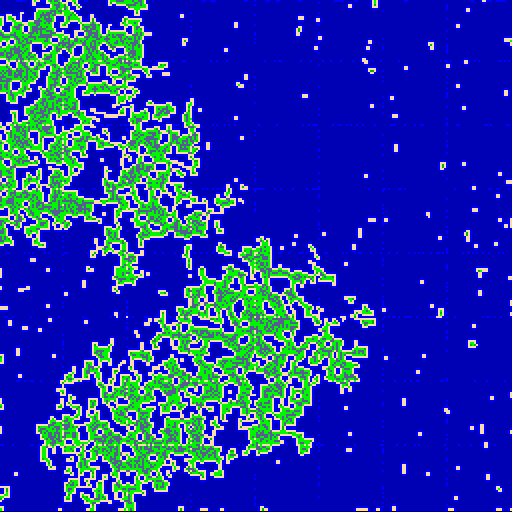
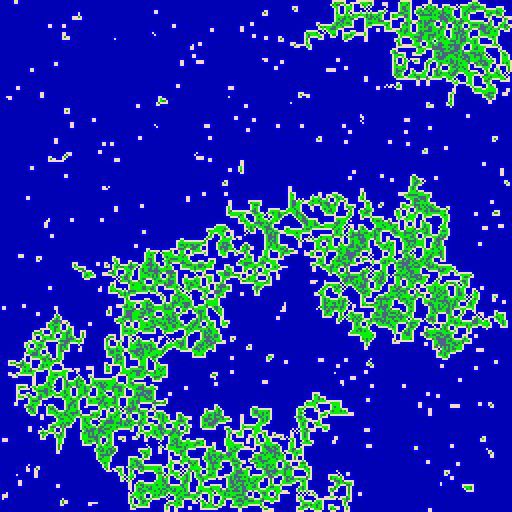
Optimization and fixed chunk border artifacts

diff --git a/main.py b/main.py
@@ -1,14 +1,15 @@
 # Noise Generator
 # Name: Charles-Émile Lanthier
-# Version: alpha 0.0.0
-# Last revision: 2024-10-17
+# Version: alpha 0.1.0
+# Last revision: 2025-06-21
 
 # TODO: Add mountain range map
-# !FIX: Fix chunk border artifacts
 # TODO: Add biomes (maybe)
 # TODO: Add interface to customize generation parameters (maybe)
 
 import pygame, sys, random
+import numpy as np
+import time
 from pygame.locals import QUIT
 
 def initialize_graphics() -> pygame.Surface:
@@ -172,6 +173,8 @@ class World:
         self.chunks = {}
         self.continent_map = {}
         self.mountain_map = {} 
+        self.noise_array = None
+        self.tiles_by_position = {}
 
 # Constants
 world = World()
@@ -183,61 +186,106 @@ world_size = 256
 chunk_size = 32 * tile_size # The size of a chunk side in pixels, by default 32 tiles or 64 pixels
 world_size_px = world_size * tile_size # The size of the world sides in pixels
 
-def compare_tile_neighbors(tile : Tile, neighbor_tile_dist=1) -> tuple:
+def create_noise_array() -> np.ndarray:
     """
-    Compares the noise value of a tile with its neighboring tiles and returns the count of matching neighbors.
-
-    This function checks the adjacent tiles (up, down, left, right) around a given tile within the same chunk and 
-    neighboring chunks, if necessary. It compares the noise value of each neighboring tile to the current tile's 
-    noise value. 
-
-    Args:
-        tile (Tile): The tile whose neighbors will be compared. The tile must have 'x', 'y', and 'noise_val' attributes.
-        neighbor_tile_dist (int, optional): The distance between the tile and its neighbors. 
-        Defaults to 1, which means directly adjacent tiles.
-
-    Returns:
-        tuple: A tuple containing:
-        - neighbor_ammount (int): The number of neighboring tiles with the same noise value as the given tile.
-        - combined_noise_value (int): The noise value of the surounding land.
-        - average_noise_value (int): The average noise value of the surounding noise.
+    Creates a numpy array representation of the world's noise values for faster processing.
     """
-    
-    neighbors = [(0, -1), (-1, 0), (0, 1), (1, 0)] # Directions for neighbor Tiles (Up, Left, Down, Right)
-    current_chunk_x = tile.x - (tile.x % chunk_size)
-    current_chunk_y = tile.y - (tile.y % chunk_size)
-    current_chunk = world.chunks.get((current_chunk_x, current_chunk_y))
+    tiles_per_side = world_size_px // tile_size
+    noise_array = np.zeros((tiles_per_side, tiles_per_side), dtype=np.int8)
 
-    neighbor_ammount = 0
-    combined_noise_value = 0
-    average_noise_value = 0
-    for neighbor_x, neighbor_y in neighbors:
-        neighbor_tile_x = tile.x + neighbor_x * tile_size * neighbor_tile_dist
-        neighbor_tile_y = tile.y + neighbor_y * tile_size * neighbor_tile_dist
+    for chunk_coords, chunk in world.chunks.items():
+        for (tile_x, tile_y), tile in chunk.tiles.items():
+            array_x = tile_x // tile_size
+            array_y = tile_y // tile_size
+            noise_array[array_y, array_x] = tile.noise_val
 
-        # Check if the neighbor tile is in the current chunk
-        if (neighbor_tile_x // chunk_size == current_chunk_x // chunk_size and
-            neighbor_tile_y // chunk_size == current_chunk_y // chunk_size):
-            neighbor_tile = current_chunk.tiles.get((neighbor_tile_x, neighbor_tile_y))
-        else:
-            # Fetch the neighboring chunk only if the neighbor is in a different chunk
-            neighbor_chunk_x = neighbor_tile_x - (neighbor_tile_x % chunk_size)
-            neighbor_chunk_y = neighbor_tile_y - (neighbor_tile_y % chunk_size)
-            neighbor_chunk = world.chunks.get((neighbor_chunk_x, neighbor_chunk_y))
-            if neighbor_chunk:
-                neighbor_tile = neighbor_chunk.tiles.get((neighbor_tile_x, neighbor_tile_y))
-            else: # Ignores world border adds a neighbor to the count
-                neighbor_tile = None
-                neighbor_ammount += 1
-                combined_noise_value += 1
+    return noise_array
 
-        if neighbor_tile:
-            combined_noise_value += neighbor_tile.noise_val
-            if neighbor_tile.noise_val == tile.noise_val:
-                neighbor_ammount += 1 
-    if neighbor_ammount > 0:
-        average_noise_value = combined_noise_value // neighbor_ammount
-    return neighbor_ammount, combined_noise_value, average_noise_value
+def update_tiles_from_array(noise_array: np.ndarray) -> None:
+    """
+    Updates tile noise values from the numpy array.
+    """
+    for chunk_coords, chunk in world.chunks.items():
+        for (tile_x, tile_y), tile in chunk.tiles.items():
+            array_x = tile_x // tile_size
+            array_y = tile_y // tile_size
+            tile.noise_val = noise_array[array_y, array_x]
+
+def smoothen_noise_vectorized(repetition: int) -> None:
+    """
+    Ultra-fast vectorized noise smoothing using numpy operations.
+    This is orders of magnitude faster than the tile-by-tile approach.
+    """
+    if world.noise_array is None:
+        world.noise_array = create_noise_array()
+
+    noise = world.noise_array.astype(np.float32)
+
+    for _ in range(repetition):
+        # Create shifted versions for neighbor calculation
+        # Pad array to handle boundaries (assume water at edges)
+        padded = np.pad(noise, 1, mode='constant', constant_values=0)
+
+        # Calculate neighbor sums using vectorized operations
+        neighbor_sum = (
+            padded[:-2, 1:-1] +  # up
+            padded[2:, 1:-1] +   # down  
+            padded[1:-1, :-2] +  # left
+            padded[1:-1, 2:]     # right
+        )
+
+        # Apply smoothing rules vectorized
+        # Land if 3+ neighbors are land OR neighbor sum > 2
+        # Water if 3+ neighbors are water OR neighbor sum < 2
+        new_noise = np.where(
+            (neighbor_sum > 2.0) | ((neighbor_sum >= 2.0) & (noise == 1.0)),
+            1.0,
+            0.0
+        )
+
+        noise = new_noise
+
+    # Convert back to int and update world
+    world.noise_array = noise.astype(np.int8)
+    update_tiles_from_array(world.noise_array)
+
+def build_tile_lookup() -> None:
+    """
+    Builds a flat dictionary for O(1) tile lookups.
+    """
+    world.tiles_by_position.clear()
+    for chunk in world.chunks.values():
+        world.tiles_by_position.update(chunk.tiles)
+
+def render_world(screen: pygame.Surface) -> None:
+    """
+    Renders the world by building a tile-level color array and scaling it up efficiently.
+    This avoids per-pixel loops and makes rendering near-instant.
+    """
+    tiles_per_side = world_size_px // tile_size
+
+    # Pre-fill tile_type and color (do in one loop for CPU cache friendliness)
+    for tile in world.tiles_by_position.values():
+        i = tile.y // tile_size
+        j = tile.x // tile_size
+        tile.tile_type = get_tile_type(tile)
+        if tile.tile_type[0] in range(3) and random.random() > 0.3 and tile.noise_val != 0 and tile.tile_type[1] == 'f':
+            tile.tile_type = (1, 't')
+        tile.color = tile.get_tile_colour()
+
+    # Build tile-level color grid
+    color_grid = np.zeros((tiles_per_side, tiles_per_side, 3), dtype=np.uint8)
+    for tile in world.tiles_by_position.values():
+        i = tile.y // tile_size
+        j = tile.x // tile_size
+        color_grid[i, j] = tile.color
+
+    # Resize grid to pixel size using np.repeat (vectorized upscaling)
+    if tile_size > 1:
+        color_grid = np.repeat(np.repeat(color_grid, tile_size, axis=0), tile_size, axis=1)
+
+    pygame.surfarray.blit_array(screen, np.transpose(color_grid, (1, 0, 2)))
+    pygame.display.update()
 
 def get_tile_type(tile : Tile) -> tuple:
     """
@@ -252,46 +300,34 @@ def get_tile_type(tile : Tile) -> tuple:
             or a count of further neighbors if applicable).
         - A string indicating the type ('d' for direct, 'f' for further).
     """
+    neighbors = [(0, -tile_size), (-tile_size, 0), (0, tile_size), (tile_size, 0)]
     
-    direct_neighbor_ammount = compare_tile_neighbors(tile)[0]
-    further_neighbor_ammount = compare_tile_neighbors(tile, 2)[0]
-
-    if further_neighbor_ammount == 4 and tile.noise_val == 1 and random.random() >= 0.5:
-        further_neighbor_ammount -= 1
+    direct_neighbor_count = 0
+    further_neighbor_count = 0
     
-    if direct_neighbor_ammount < 4:
+    # Direct neighbors
+    for dx, dy in neighbors:
+        neighbor = world.tiles_by_position.get((tile.x + dx, tile.y + dy))
+        if neighbor and neighbor.noise_val == tile.noise_val:
+            direct_neighbor_count += 1
+        elif not neighbor:  # World boundary
+            direct_neighbor_count += 1 if tile.noise_val == 0 else 0
+    
+    # Further neighbors (distance 2)
+    for dx, dy in neighbors:
+        neighbor = world.tiles_by_position.get((tile.x + dx * 2, tile.y + dy * 2))
+        if neighbor and neighbor.noise_val == tile.noise_val:
+            further_neighbor_count += 1
+        elif not neighbor:  # World boundary
+            further_neighbor_count += 1 if tile.noise_val == 0 else 0
+    
+    if further_neighbor_count == 4 and tile.noise_val == 1 and random.random() >= 0.5:
+        further_neighbor_count -= 1
+    
+    if direct_neighbor_count < 4:
         return (1, 'd')
     else:
-        return (further_neighbor_ammount, 'f')
-
-def chunk_smoothen_noise(current_chunk : Chunk, repetition : int) -> None:
-    """
-    Smoothens the noise values of tiles in the current chunk by averaging with their neighbors.
-
-    This function iterates over all tiles in the specified chunk and updates each tile's noise value based on 
-    the noise values of its neighboring tiles, repeating the process for a given number of iterations.
-
-    Args:
-        current_chunk (Chunk): The chunk containing the tiles to be smoothed. Must have 'x', 'y', and 'tiles' attributes.
-        repetition (int): The number of times to repeat the smoothing process.
-    """
-    
-    current_chunk_x, current_chunk_y = current_chunk.x, current_chunk.y
-
-    for _ in range(repetition):
-        for y in range(current_chunk_y, current_chunk_y + chunk_size, tile_size):
-            for x in range(current_chunk_x, current_chunk_x + chunk_size, tile_size):
-                # Count how many neighbors are land (noise value of 1)
-                neighbor_ammount, combined_noise_value, average_noise_value = compare_tile_neighbors(current_chunk.tiles.get((x, y)), 1)
-
-                # Update the tile's noise value based on neighbors noise values
-                if current_chunk.tiles.get((x, y)):
-                    if (neighbor_ammount > 2 and average_noise_value == 1) or combined_noise_value > 2:
-                        current_chunk.tiles[(x, y)].noise_val = 1
-                    elif (neighbor_ammount > 2 and average_noise_value == 0) or combined_noise_value < 2:
-                        current_chunk.tiles[(x, y)].noise_val = 0
-                else:
-                    print("Failed to update tile")
+        return (further_neighbor_count, 'f')
 
 def generate_continent_map(continent_resolution : int, continent_ammount=3, gen_chance :float=1) -> None:
     '''
@@ -365,6 +401,8 @@ def generate_world(screen : pygame.Surface, world_seed : int) -> None:
         world_seed (int): The seed used for random number generation to ensure consistent world generation.
     """
     
+    start_time = time.time() # Start timing for whole function
+
     random.seed(world_seed) # Seed is initialized here to keep consistency in the generated noise
     chunk_ID = 0 # Initializes the chunk ID value
 
@@ -372,14 +410,20 @@ def generate_world(screen : pygame.Surface, world_seed : int) -> None:
     # 0 = raw noise, 1 = coarse noise, 2+ = smoother noise, etc
     # The higher the number the less smoothing it can apply to the noise 
     # and higher performance costs
-    noise_smoothing_repetition = 3 
+    noise_smoothing_repetition = 4 
     continent_resolution = 8 # how much to divide chunks for continent details
+
+    continent_time_start = time.time()
 
     # Fills the continent map with placeholder tiles
     world.continent_map = {(y, x) : Tile(x, y, 0, 0) 
                             for y in range(0, world_size_px, int(chunk_size/continent_resolution)) 
                             for x in range(0, world_size_px, int(chunk_size/continent_resolution))} 
     generate_continent_map(continent_resolution, 5)
+
+    print(f"Continent generation: {time.time() - continent_time_start:.6f} seconds")
+
+    chunk_time_start = time.time()
 
     # Fills the chunks with tiles, 
     # this is raw noise at this point 
@@ -403,13 +447,20 @@ def generate_world(screen : pygame.Surface, world_seed : int) -> None:
             chunk = Chunk(chunk_x, chunk_y, chunk_ID, chunk_tiles)
             world.chunks[(chunk_x, chunk_y)] = chunk
             chunk_ID += 1
+    print(f"Chunk creation: {time.time() - chunk_time_start:.6f} seconds")
 
-    # Smoothen the noise in every chunk
-    for (x, y), chunk in world.chunks.items():
-        chunk_smoothen_noise(chunk, noise_smoothing_repetition)
-        chunk.load_chunk(screen)
+    build_tile_lookup()
+
+    smoothing_time_start = time.time()
+    smoothen_noise_vectorized(noise_smoothing_repetition)
+    print(f"Smoothing: {time.time() - smoothing_time_start:.6f} seconds")
+
+    render_time_start = time.time()
+    render_world(screen)
+    print(f"Rendering: {time.time() - render_time_start:.6f} seconds")
 
     pygame.image.save(screen, 'world.png') # Saves an image of the world to see the details and help with debugging
+    print(f"Full world generation: {time.time() - start_time:.6f} seconds")
 
 def main() -> None:
     """
